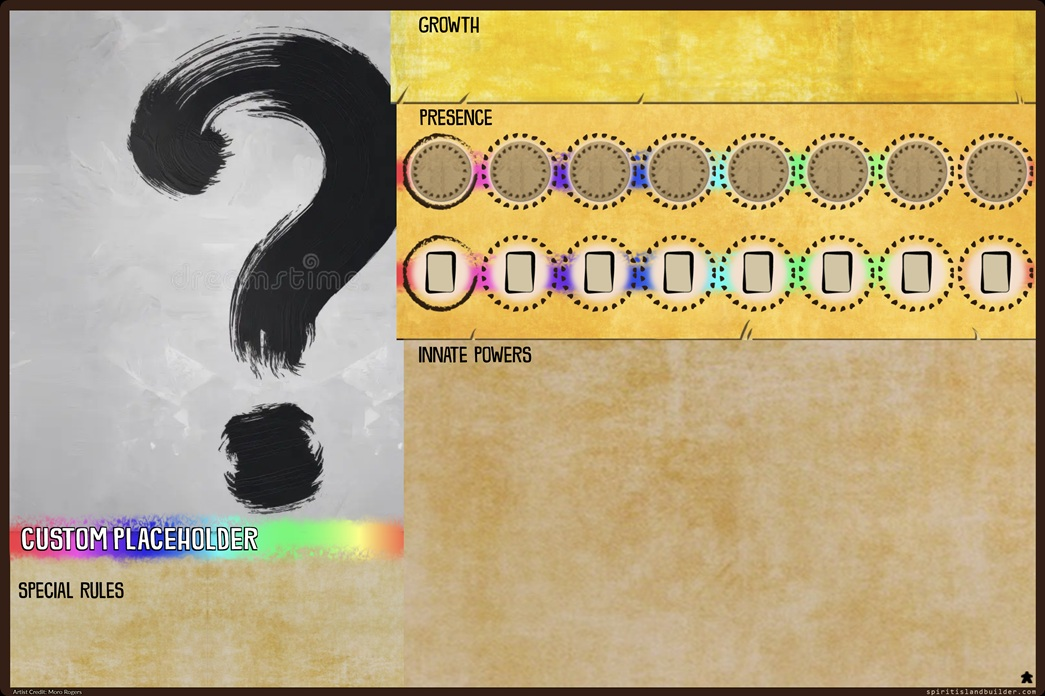
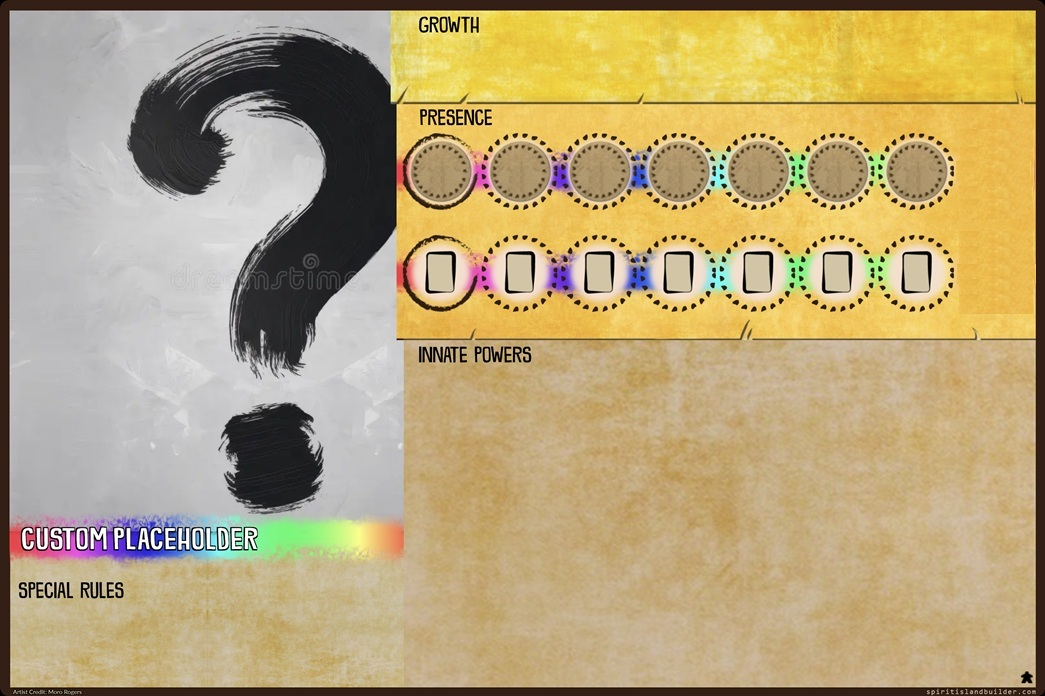
Revert back to 12 spots as website forces itS

Changed region(s): [[0.9187, 0.3319, 1.0, 0.4526], [0.9187, 0.181, 1.0, 0.3017]]

diff --git a/pbf/views.py b/pbf/views.py
@@ -458,8 +458,8 @@ spirit_presence = frozendict({
                 # hoard treasure
                 (13,1146,1.0), (83,1146,1.0), (153,1146,1.0), (223,1146,1.0), (293,1146,1.0), (363,1146,1.0), (433,1146,1.0), (503,1146,1.0), (573,1146,1.0), (643,1146,1.0), (713,1146,1.0), (783,1146,1.0), (853,1146,1.0),
                 ),
-        'CustomPlaceholder': ((432,118,1.0),(504,118,1.0),(576,118,1.0),(648,118,1.0),(720,118,1.0),(792,118,1.0),(864,118,1.0),
-                (432,209,1.0),(504,209,1.0),(576,209,1.0),(648,209,1.0),(720,209,1.0),(792,209,1.0),(864,209,1.0)),
+        'CustomPlaceholder': ((432,118,1.0),(504,118,1.0),(576,118,1.0),(648,118,1.0),(720,118,1.0),(792,118,1.0),
+                (432,209,1.0),(504,209,1.0),(576,209,1.0),(648,209,1.0),(720,209,1.0),(792,209,1.0)),
 })
 
 spirit_additional_cards = frozendict({
